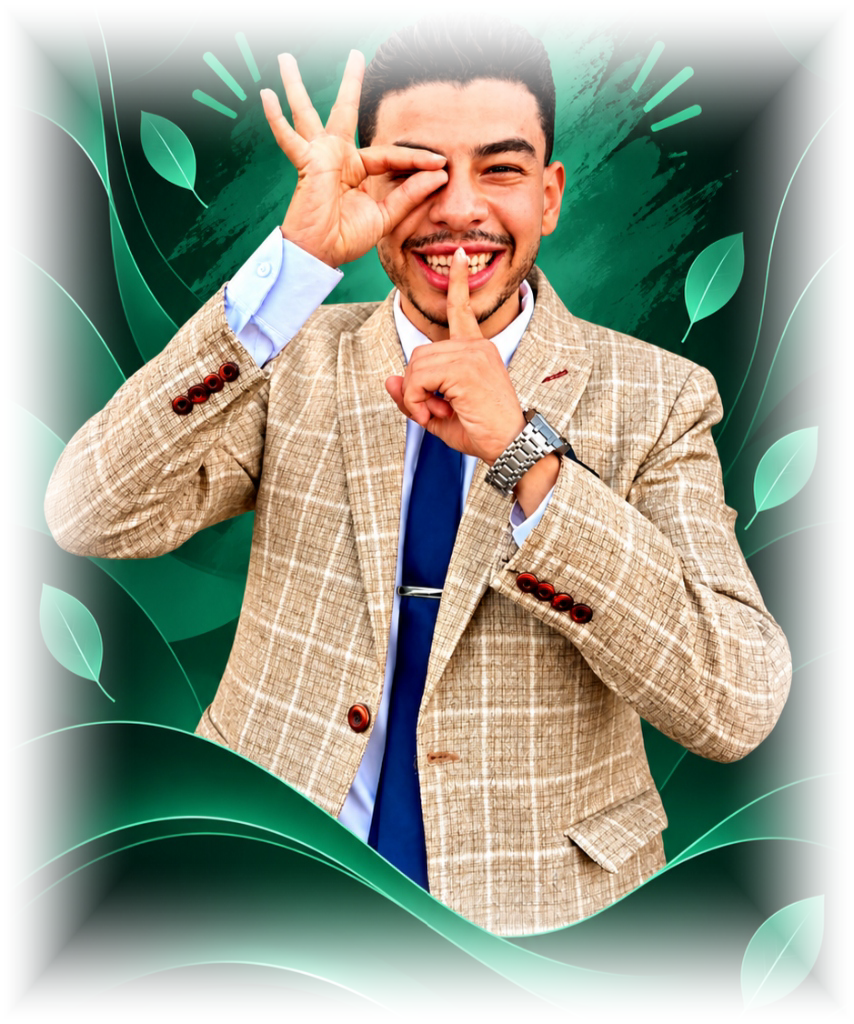
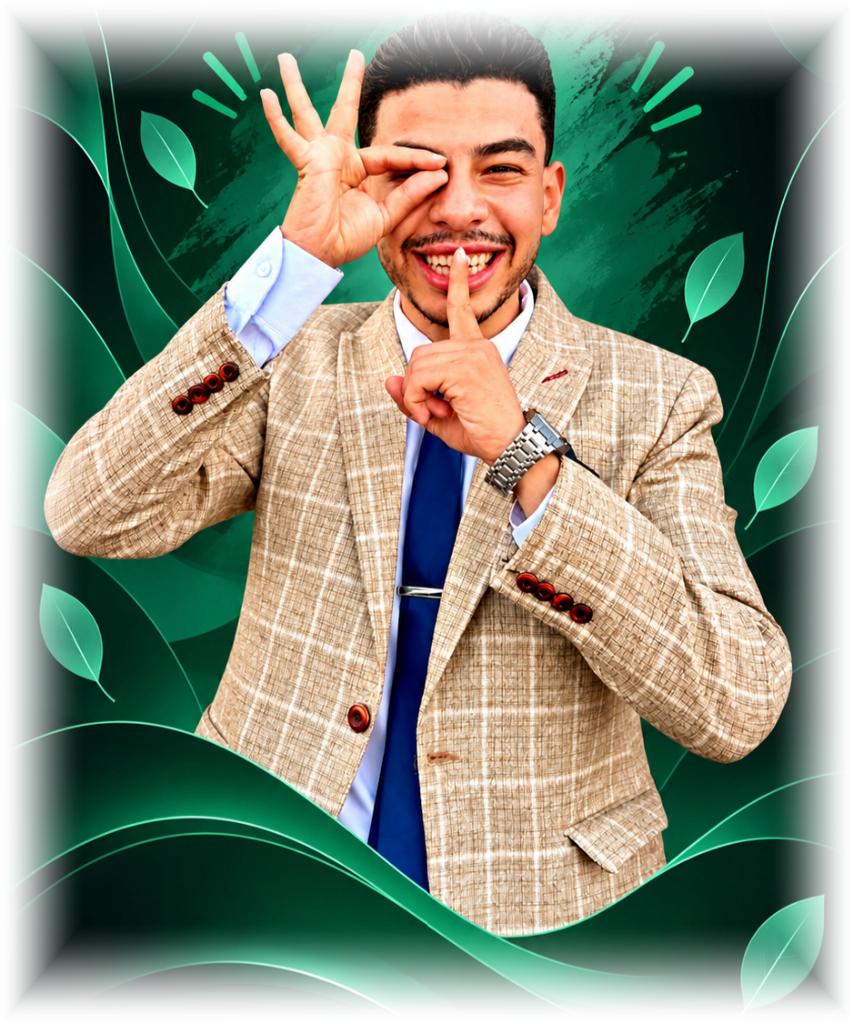
Update mobile dark mode image scaling and add version query string to bypass browser cache

diff --git a/apps/web/src/components/home/HeroBanner.tsx b/apps/web/src/components/home/HeroBanner.tsx
@@ -23,20 +23,20 @@ export default function HeroBanner() {
       <div className="relative z-10 w-full max-w-7xl mx-auto px-2 sm:px-6 lg:px-8 flex flex-col items-center justify-center text-center">
         
         {/* MOBILE VISUAL COMPOSITION */}
-        <div className="flex sm:hidden items-center justify-center w-full mx-auto px-1 py-2">
+        <div className="flex sm:hidden items-center justify-center w-full mx-auto px-1 py-1">
           
           {/* Mobile Light Mode Visual */}
           <img
-            src="/assets/hero/hero-visual-mobile-seamless.png"
+            src="/assets/hero/hero-visual-mobile-seamless.png?v=20260930_v5"
             alt="Mr. Omar Makawy - Mobile Hero Visual Composition"
-            className="dark:hidden w-full max-w-[360px] xs:max-w-[420px] h-auto object-contain transition-all duration-300 pointer-events-none select-none filter drop-shadow-[0_8px_24px_rgba(17,105,78,0.06)]"
+            className="dark:hidden w-full max-w-[380px] xs:max-w-[440px] h-auto object-contain transition-all duration-300 pointer-events-none select-none filter drop-shadow-[0_8px_24px_rgba(17,105,78,0.06)]"
           />
 
-          {/* Mobile Dark Mode Visual (Exact Seamless Alpha Feathered PNG) */}
+          {/* Mobile Dark Mode Visual (Exact User Image Size, Prominent & Seamless) */}
           <img
-            src="/assets/hero/hero-visual-mobile-dark-seamless.png"
+            src="/assets/hero/hero-visual-mobile-dark-seamless.png?v=20260930_v5"
             alt="Mr. Omar Makawy - Mobile Dark Mode Hero Visual Composition"
-            className="hidden dark:block w-full max-w-[360px] xs:max-w-[420px] h-auto object-contain transition-all duration-300 pointer-events-none select-none"
+            className="hidden dark:block w-full max-w-[440px] xs:max-w-[480px] sm:max-w-[520px] h-auto object-contain transition-all duration-300 pointer-events-none select-none"
           />
 
         </div>
@@ -46,14 +46,14 @@ export default function HeroBanner() {
           
           {/* Desktop Light Mode Visual */}
           <img
-            src="/assets/hero/hero-visual-seamless.png"
+            src="/assets/hero/hero-visual-seamless.png?v=20260930_v5"
             alt="Mr. Omar Makawy - Desktop Hero Visual Composition"
             className="dark:hidden w-full sm:max-w-[680px] md:max-w-[860px] lg:max-w-[1040px] xl:max-w-[1200px] h-auto object-contain transition-all duration-300 pointer-events-none select-none filter drop-shadow-[0_10px_30px_rgba(17,105,78,0.06)]"
           />
 
           {/* Desktop Dark Mode Visual (Exact Seamless Alpha Feathered PNG) */}
           <img
-            src="/assets/hero/hero-visual-desktop-dark-seamless.png"
+            src="/assets/hero/hero-visual-desktop-dark-seamless.png?v=20260930_v5"
             alt="Mr. Omar Makawy - Desktop Dark Mode Hero Visual Composition"
             className="hidden dark:block w-full sm:max-w-[680px] md:max-w-[860px] lg:max-w-[1040px] xl:max-w-[1200px] h-auto object-contain transition-all duration-300 pointer-events-none select-none"
           />
